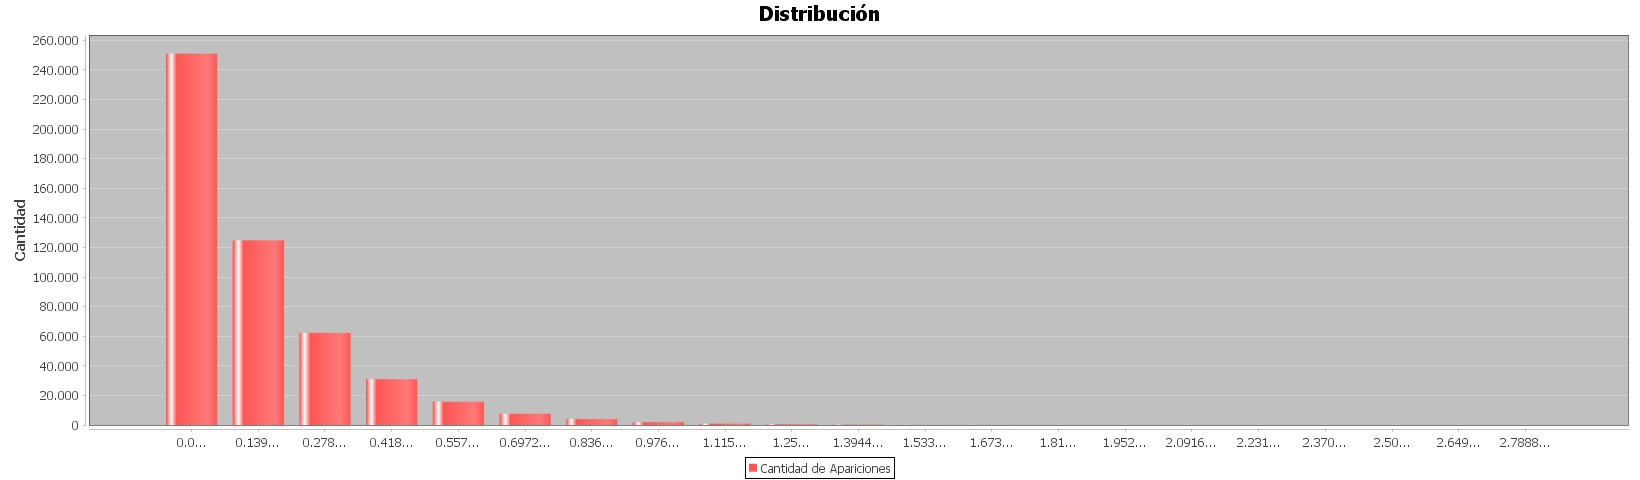
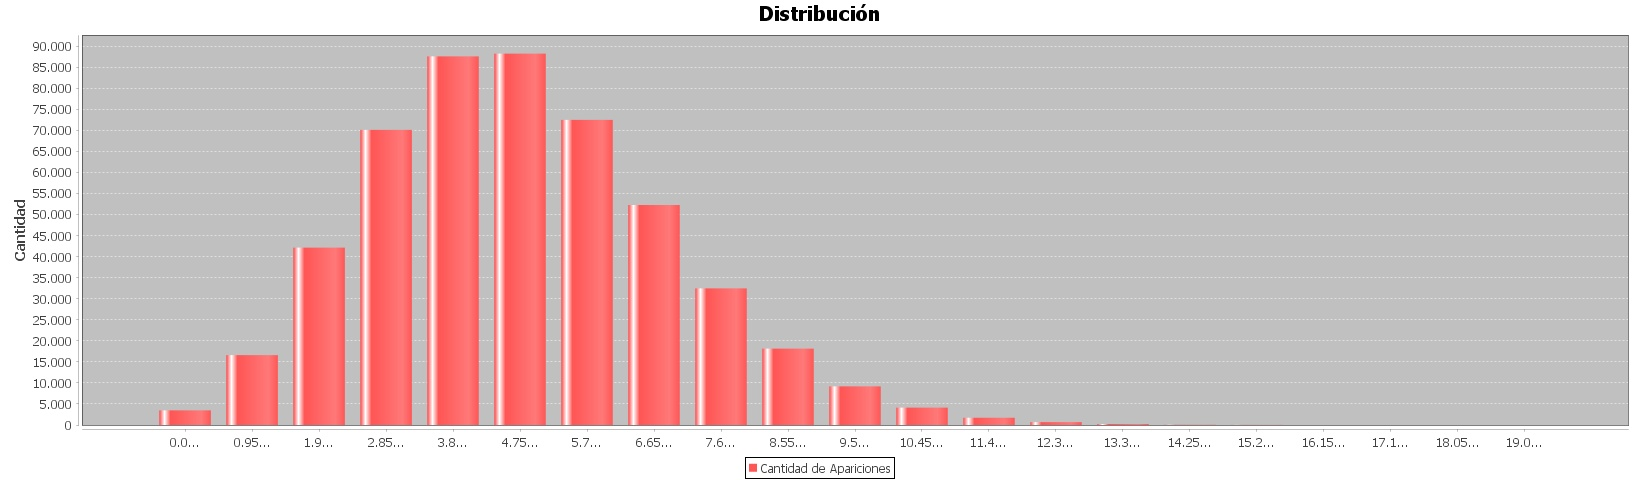
poisson

Changed region(s): [[0.0933, 0.0938, 0.8085, 0.9375], [0.0, 0.0625, 0.0622, 0.9062], [0.8396, 0.9062, 0.9329, 0.9375]]

diff --git a/TP3/src/tp3/CongruencialMixto.java b/TP3/src/tp3/CongruencialMixto.java
@@ -134,12 +134,31 @@ public class CongruencialMixto{
             truncar = ((Double)((double)numeros[i+1]*10000)).intValue();
             numeros[i+1] = (double)truncar / 10000;
             
-            
-            
         }
         
         return numeros;
     }      
+    
+    
+    public Object[] getNumerosPoisson(int cantidad, float lambda) {
+        Object[] numeros = new Object[cantidad];
+        
+        for (int i = 0; i < cantidad; i++) {
+            double p = 1;
+            int numero =  -1;
+            double exp = Math.pow(Math.E, ((-1)*lambda));
+            
+            do{
+                double u = Math.random();
+                p = p * u;
+                numero = numero + 1;
+            }while (p >= exp);
+            
+            numeros[i] = (double)numero;
+        }
+        
+        return numeros;
+    }
 }
 
 

diff --git a/TP3/src/tp3/GUI.java b/TP3/src/tp3/GUI.java
@@ -573,7 +573,7 @@ public class GUI extends javax.swing.JFrame {
                     max = Integer.parseInt(txtIntervaloHasta.getText());
                     
                 } else if (distribucionSeleccionada().compareTo("Poisson") == 0) {
-                    array = generador.getNumerosExponenciales(Integer.parseInt(txtCantidad.getText()), Float.parseFloat(txtFrecuenciaExp.getText()));
+                    array = generador.getNumerosPoisson(Integer.parseInt(txtCantidad.getText()), Float.parseFloat(txtFrecuenciaPoi.getText()));
                     
                     calcularMinimo = true;
                     calcularMaximo = true;
